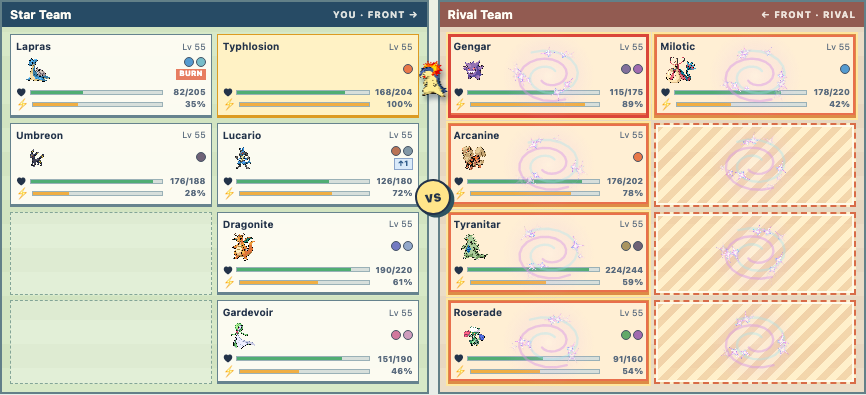
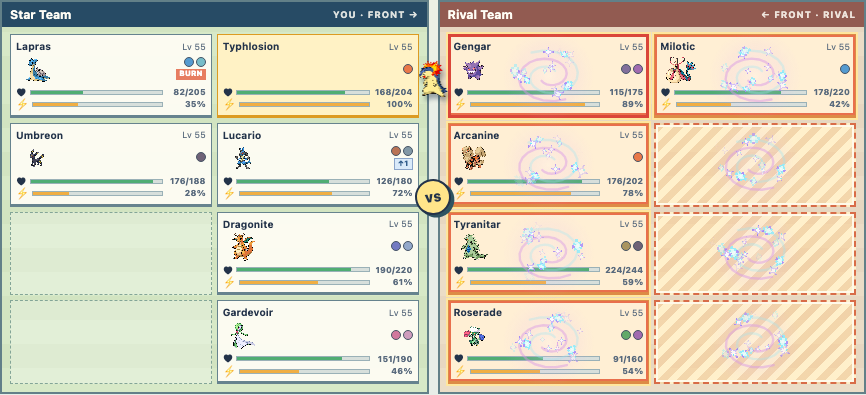
Refine impact arcs and stagger Fairy motes

diff --git a/web/src/battles/dev/QualityVfxPrototype.tsx b/web/src/battles/dev/QualityVfxPrototype.tsx
@@ -3,6 +3,8 @@ import { useEffect, useRef, useState } from "react";
 import { createPortal } from "react-dom";
 import impactUrl from "../../../../media/vfx/experiments/normal-impact-streak.png";
 import fairyUrl from "../../../../media/vfx/experiments/fairy-status-mote.png";
+import fairyGlintUrl from "../../../../media/vfx/experiments/fairy-status-glint-small.png";
+import fairyPearlUrl from "../../../../media/vfx/experiments/fairy-status-pearl-small.png";
 
 export const qualityVfxVariants = {
   "normal-physical": ["original", "impact", "cross", "ripple"],
@@ -12,7 +14,7 @@ export type QualityVfxStudy = keyof typeof qualityVfxVariants;
 export type QualityVfxVariant = "original" | "impact" | "cross" | "ripple" | "halo" | "spiral" | "veil";
 export const qualityVfxNames: Record<QualityVfxVariant, string> = {
   original: "Current SVG",
-  impact: "Impact lines",
+  impact: "Impact arcs",
   cross: "Crossing strikes",
   ripple: "Pressure rings",
   halo: "Mote halo",
@@ -68,37 +70,65 @@ const drawRing = (ctx: CanvasRenderingContext2D, tile: Tile, radius: number,
   ctx.restore();
 };
 
+const drawImpactArc = (ctx: CanvasRenderingContext2D, tile: Tile, start: number,
+  sweep: number, radius: number, width: number, opacity: number, seed: number) => {
+  const segments = 18;
+  ctx.save();
+  ctx.globalAlpha = clamp(opacity);
+  ctx.beginPath();
+  for (let step = 0; step <= segments; step++) {
+    const progress = step / segments;
+    const taper = Math.sin(Math.PI * progress);
+    const spike = step % 3 === 1 ? .55 + random(seed + step * 31) * .8 :
+      random(seed + step * 31) * .18;
+    const angle = start + sweep * progress;
+    const outer = radius + width * taper * spike;
+    const x = tile.x + Math.cos(angle) * outer;
+    const y = tile.y + Math.sin(angle) * outer * .82;
+    if (!step) ctx.moveTo(x, y); else ctx.lineTo(x, y);
+  }
+  for (let step = segments; step >= 0; step--) {
+    const progress = step / segments;
+    const taper = Math.sin(Math.PI * progress);
+    const angle = start + sweep * progress;
+    const inner = radius - width * taper * (.8 + random(seed + step * 37) * .15);
+    ctx.lineTo(tile.x + Math.cos(angle) * inner,
+      tile.y + Math.sin(angle) * inner * .82);
+  }
+  ctx.closePath();
+  ctx.fillStyle = "#fffaf0";
+  ctx.fill();
+  ctx.strokeStyle = "#525d66";
+  ctx.lineWidth = Math.max(1, tile.radius * .035);
+  ctx.stroke();
+  ctx.restore();
+};
+
 const drawNormalPhysical = (ctx: CanvasRenderingContext2D, image: HTMLImageElement,
   tile: Tile, ms: number, variant: QualityVfxVariant) => {
   const seed = tile.seed;
   const r = tile.radius;
   if (variant === "impact") {
-    const coreAge = (ms - 25) / 310;
-    if (coreAge >= 0 && coreAge <= 1) {
-      ctx.save();
-      ctx.globalAlpha = fade(coreAge) * .65;
-      ctx.fillStyle = "#fff8e5";
-      ctx.beginPath();
-      ctx.ellipse(tile.x, tile.y, r * (.09 + coreAge * .11),
-        r * (.08 + coreAge * .08), 0, 0, Math.PI * 2);
-      ctx.fill();
-      ctx.strokeStyle = "#525967";
-      ctx.lineWidth = Math.max(1, r * .035);
-      ctx.stroke();
-      ctx.restore();
-    }
-    const ringAge = ms / 370;
-    if (ringAge <= 1) drawRing(ctx, tile, r * (.18 + ringAge * .74),
-      fade(ringAge) * .65, "#b7a993", Math.max(1.5, r * .075));
-    const count = 6 + Math.floor(random(seed + 7) * 4);
-    const phase = random(seed + 11) * Math.PI * 2;
-    for (let index = 0; index < count; index++) {
-      const key = seed + index * 101;
-      const age = (ms - 28 - random(key + 17) * 90) / (260 + random(key + 19) * 170);
-      if (age < 0 || age > 1) continue;
-      const angle = phase + index / count * Math.PI * 2 + (random(key + 23) - .5) * .3;
-      const length = r * (1.03 + random(key + 29) * .7) * (1 - age * .25);
-      drawStreak(ctx, image, tile, angle, r * age * .33, length, fade(age) * .87);
+    for (let pulse = 0; pulse < 2; pulse++) {
+      const pulseAge = (ms - 45 - pulse * 210) / (pulse ? 390 : 330);
+      if (pulseAge < 0 || pulseAge > 1) continue;
+      drawRing(ctx, tile, r * (.28 + pulseAge * .7), fade(pulseAge) * (pulse ? .3 : .48),
+        "#8e9293", Math.max(1.5, r * (pulse ? .09 : .13)), .82);
+      const count = 2 + Math.floor(random(seed + pulse * 43 + 7) * 2);
+      const rotation = random(seed + pulse * 43 + 11) * Math.PI * 2;
+      for (let index = 0; index < count; index++) {
+        const key = seed + pulse * 503 + index * 101;
+        const arcAge = (ms - 45 - pulse * 210 - random(key + 5) * 65) /
+          (260 + random(key + 9) * 150);
+        if (arcAge < 0 || arcAge > 1) continue;
+        const start = rotation + index / count * Math.PI * 2 +
+          (random(key + 13) - .5) * .35;
+        const sweep = (60 + random(key + 17) * 60) * Math.PI / 180;
+        const radius = r * (.38 + arcAge * .42 + random(key + 23) * .17);
+        const width = r * (.18 + random(key + 29) * .13) * (1 - arcAge * .35);
+        drawImpactArc(ctx, tile, start, sweep, radius, width,
+          fade(arcAge) * (pulse ? .76 : .92), key);
+      }
     }
   } else if (variant === "cross") {
     const base = -.5 + (random(seed + 11) - .5) * .22;
@@ -153,29 +183,39 @@ const drawFairyGlow = (ctx: CanvasRenderingContext2D, tile: Tile, time: number) 
   ctx.fillRect(tile.x - radius, tile.y - radius, radius * 2, radius * 2);
 };
 
-const drawFairyStatus = (ctx: CanvasRenderingContext2D, image: HTMLImageElement,
+type FairySprites = { main: HTMLImageElement; glint: HTMLImageElement; pearl: HTMLImageElement };
+const drawFairyOutwardMotes = (ctx: CanvasRenderingContext2D, sprites: FairySprites,
+  tile: Tile, ms: number, count: number) => {
+  for (let index = 0; index < count; index++) {
+    const key = tile.seed + index * 131;
+    const birth = 15 + index * 30 + random(key + 3) * 36;
+    const life = 160 + random(key + 7) * 175;
+    const age = (ms - birth) / life;
+    if (age < 0 || age > 1) continue;
+    const angle = random(key + 11) * Math.PI * 2;
+    const radius = tile.radius * (.13 + age * (.48 + random(key + 17) * .48));
+    const sprite = index % 6 === 0 ? sprites.main : index % 2 ? sprites.glint : sprites.pearl;
+    const size = tile.radius * (index % 6 === 0 ? .3 : .15 + random(key + 23) * .12);
+    drawMote(ctx, sprite, tile.x + Math.cos(angle) * radius,
+      tile.y + Math.sin(angle) * radius * .75 - age * tile.radius * .12,
+      size, (random(key + 29) - .5) * .7 + age * .35,
+      Math.min(1, age * 9) * Math.pow(1 - age, .65) * .88);
+  }
+};
+
+const drawFairyStatus = (ctx: CanvasRenderingContext2D, sprites: FairySprites,
   tile: Tile, ms: number, variant: QualityVfxVariant) => {
   const seed = tile.seed;
   const r = tile.radius;
   drawFairyGlow(ctx, tile, ms / 760);
   if (variant === "halo") {
-    const age = ms / 690;
-    if (age <= 1) {
-      drawRing(ctx, tile, r * (.22 + age * .65), fade(age) * .75,
-        "#f4b7f2", Math.max(1.5, r * .055), .7);
-      drawRing(ctx, tile, r * (.14 + age * .47), fade(age) * .5,
-        "#bbf7ff", Math.max(1, r * .03), .7);
-    }
-    for (let index = 0; index < 8; index++) {
-      const key = seed + index * 97;
-      const birth = 65 + random(key + 3) * 180;
-      const age = (ms - birth) / (360 + random(key + 7) * 190);
+    for (let pulse = 0; pulse < 2; pulse++) {
+      const age = (ms - pulse * 290) / (pulse ? 430 : 520);
       if (age < 0 || age > 1) continue;
-      const angle = index / 8 * Math.PI * 2 + random(seed + 11) * .4 + age * .35;
-      const radius = r * (.33 + age * .57);
-      drawMote(ctx, image, tile.x + Math.cos(angle) * radius,
-        tile.y + Math.sin(angle) * radius * .72 - age * r * .17,
-        r * (.23 + random(key + 13) * .23), angle + age, fade(age) * .92);
+      drawRing(ctx, tile, r * (.22 + age * .65), fade(age) * (pulse ? .58 : .75),
+        "#f4b7f2", Math.max(1.5, r * .055), .7);
+      drawRing(ctx, tile, r * (.14 + age * .47), fade(age) * .42,
+        "#bbf7ff", Math.max(1, r * .03), .7);
     }
   } else if (variant === "spiral") {
     const curveAge = ms / 700;
@@ -199,19 +239,20 @@ const drawFairyStatus = (ctx: CanvasRenderingContext2D, image: HTMLImageElement,
         ctx.restore();
       }
     }
-    for (let index = 0; index < 11; index++) {
+    for (let index = 0; index < 8; index++) {
       const key = seed + index * 101;
       const birth = index * 28 + random(key + 5) * 65;
       const age = (ms - birth) / 450;
       if (age < 0 || age > 1) continue;
       const angle = index * 2.4 + age * 3.5 + random(seed + 7);
       const radius = r * (.9 - age * .62);
-      drawMote(ctx, image, tile.x + Math.cos(angle) * radius,
+      const sprite = index % 2 ? sprites.glint : sprites.pearl;
+      drawMote(ctx, sprite, tile.x + Math.cos(angle) * radius,
         tile.y + Math.sin(angle) * radius * .72 - age * r * .22,
-        r * (.25 + random(key + 17) * .28), angle, fade(age) * .95);
+        r * (.2 + random(key + 17) * .18), angle, fade(age) * .95);
     }
     const age = (ms - 325) / 410;
-    if (age >= 0 && age <= 1) drawMote(ctx, image, tile.x, tile.y - age * r * .2,
+    if (age >= 0 && age <= 1) drawMote(ctx, sprites.main, tile.x, tile.y - age * r * .2,
       r * (.62 + age * .36), age * .6, fade(age) * .9);
   } else {
     const progress = clamp(ms / 760);
@@ -237,10 +278,12 @@ const drawFairyStatus = (ctx: CanvasRenderingContext2D, image: HTMLImageElement,
       if (age < 0 || age > 1) continue;
       const x = tile.x + r * (-.75 + age * 1.5);
       const y = tile.y + Math.sin(age * Math.PI * 2 + index) * r * .34 - age * r * .18;
-      drawMote(ctx, image, x, y, r * (.19 + random(key + 3) * .24),
+      drawMote(ctx, index % 2 ? sprites.glint : sprites.pearl,
+        x, y, r * (.17 + random(key + 3) * .16),
         age * .7, fade(age) * .8);
     }
   }
+  drawFairyOutwardMotes(ctx, sprites, tile, ms, variant === "halo" ? 18 : 14);
 };
 
 export const QualityVfxPrototype = ({ study, variant, replayKey }: {
@@ -254,8 +297,9 @@ export const QualityVfxPrototype = ({ study, variant, replayKey }: {
     const canvas = canvasRef.current;
     const ctx = canvas.getContext("2d");
     if (!ctx) return;
-    const image = new Image();
-    image.src = study === "normal-physical" ? impactUrl : fairyUrl;
+    const imageUrls = study === "normal-physical" ? [impactUrl] :
+      [fairyUrl, fairyGlintUrl, fairyPearlUrl];
+    const images = imageUrls.map((url) => { const image = new Image(); image.src = url; return image; });
     let frame = 0;
     let tiles: Tile[] = [];
     let disposed = false;
@@ -284,12 +328,13 @@ export const QualityVfxPrototype = ({ study, variant, replayKey }: {
       const density = Math.min(window.devicePixelRatio || 1, 2);
       ctx.clearRect(0, 0, canvas.width / density, canvas.height / density);
       const effectMs = elapsed - 405;
-      if (image.complete && image.naturalWidth > 0 && effectMs >= 0 && effectMs <= 760) {
+      if (images.every((image) => image.complete && image.naturalWidth > 0) &&
+        effectMs >= 0 && effectMs <= 760) {
         tiles.forEach((tile) => {
           const ms = effectMs - random(tile.seed + 3) * 65;
           if (ms < 0) return;
-          if (study === "normal-physical") drawNormalPhysical(ctx, image, tile, ms, variant);
-          else drawFairyStatus(ctx, image, tile, ms, variant);
+          if (study === "normal-physical") drawNormalPhysical(ctx, images[0], tile, ms, variant);
+          else drawFairyStatus(ctx, { main: images[0], glint: images[1], pearl: images[2] }, tile, ms, variant);
         });
       }
       if (elapsed < 1500) frame = requestAnimationFrame(render);

diff --git a/docs/prototypes/vfx-quality/README.md b/docs/prototypes/vfx-quality/README.md
@@ -1,6 +1,6 @@
 # Normal Physical and Fairy Status quality studies
 
-Question: can one small texture plus timed canvas layers make two very different
+Question: can small textures plus timed canvas layers make two very different
 tile effects clearer and richer than the current SVG matrix?
 
 These are throwaway development stories on the existing VFX lab. Run
@@ -11,7 +11,7 @@ including empty tiles.
 
 | Study | Review URL | Variants |
 | --- | --- | --- |
-| Normal Physical | `?previewBattle=1&story=vfx&type=normal&kind=physical&pattern=all&variant=impact` | Current SVG, impact lines, crossing strikes, pressure rings |
+| Normal Physical | `?previewBattle=1&story=vfx&type=normal&kind=physical&pattern=all&variant=impact` | Current SVG, impact arcs, crossing strikes, pressure rings |
 | Fairy Status | `?previewBattle=1&story=vfx&type=fairy&kind=status&pattern=all&variant=halo` | Current SVG, mote halo, gathering spiral, ribbon veil |
 
 ## Captures
@@ -19,7 +19,7 @@ including empty tiles.
 | Normal Physical | Still at about 650 ms |
 | --- | --- |
 | Current SVG | ![Normal SVG](normal-physical-original.png) |
-| Impact lines | ![Impact lines](normal-physical-impact.png) |
+| Impact arcs | ![Impact arcs](normal-physical-impact.png) |
 | Crossing strikes | ![Crossing strikes](normal-physical-cross.png) |
 | Pressure rings | ![Pressure rings](normal-physical-ripple.png) |
 
@@ -34,11 +34,23 @@ including empty tiles.
 
 ![Fairy spiral motion](fairy-spiral-motion.gif)
 
-The Normal texture is an independently generated impact streak at
-`media/vfx/experiments/normal-impact-streak.png`; the Fairy texture is an
-independently generated mote at `media/vfx/experiments/fairy-status-mote.png`.
-Canvas timing, rings, ribbons, positioning, and per-tile seeded variation are
-code-driven. The stories remain outside the production build.
+The Normal impact variant now draws two staggered pulses, each with two or three
+partial jagged arcs spanning 60–120 degrees. Radius, rotation, timing, and arc
+shape vary by tile seed. The older crossing and ripple variants still use the
+independently generated streak at `media/vfx/experiments/normal-impact-streak.png`.
+
+Fairy uses the existing higher-detail center mote at
+`media/vfx/experiments/fairy-status-mote.png` plus two new low-resolution,
+32-pixel glint and pearl sprites (`fairy-status-glint-small.png` and
+`fairy-status-pearl-small.png`). Different small sprites emit outward at staggered
+times through most of the VFX interval; the main mote appears occasionally as
+an accent. Canvas timing, arcs, rings, ribbons, positioning, and per-tile seeded
+variation are code-driven. The stories remain outside the production build.
+
+As a choreography reference, [Pokémon Showdown's move table](https://github.com/smogon/pokemon-showdown-client/blob/master/play.pokemonshowdown.com/src/battle-animations-moves.ts)
+uses two staggered expanding impact images for Giga Impact, reuses that sequence
+for Double-Edge, and combines actor motion with two target-side wisps for Body
+Slam. These studies use their own art and geometry.
 
 The Normal study tests whether a short, sharp pulse reads as physical without
 comic-book symbols. The Fairy study tests whether the status effect reads as
